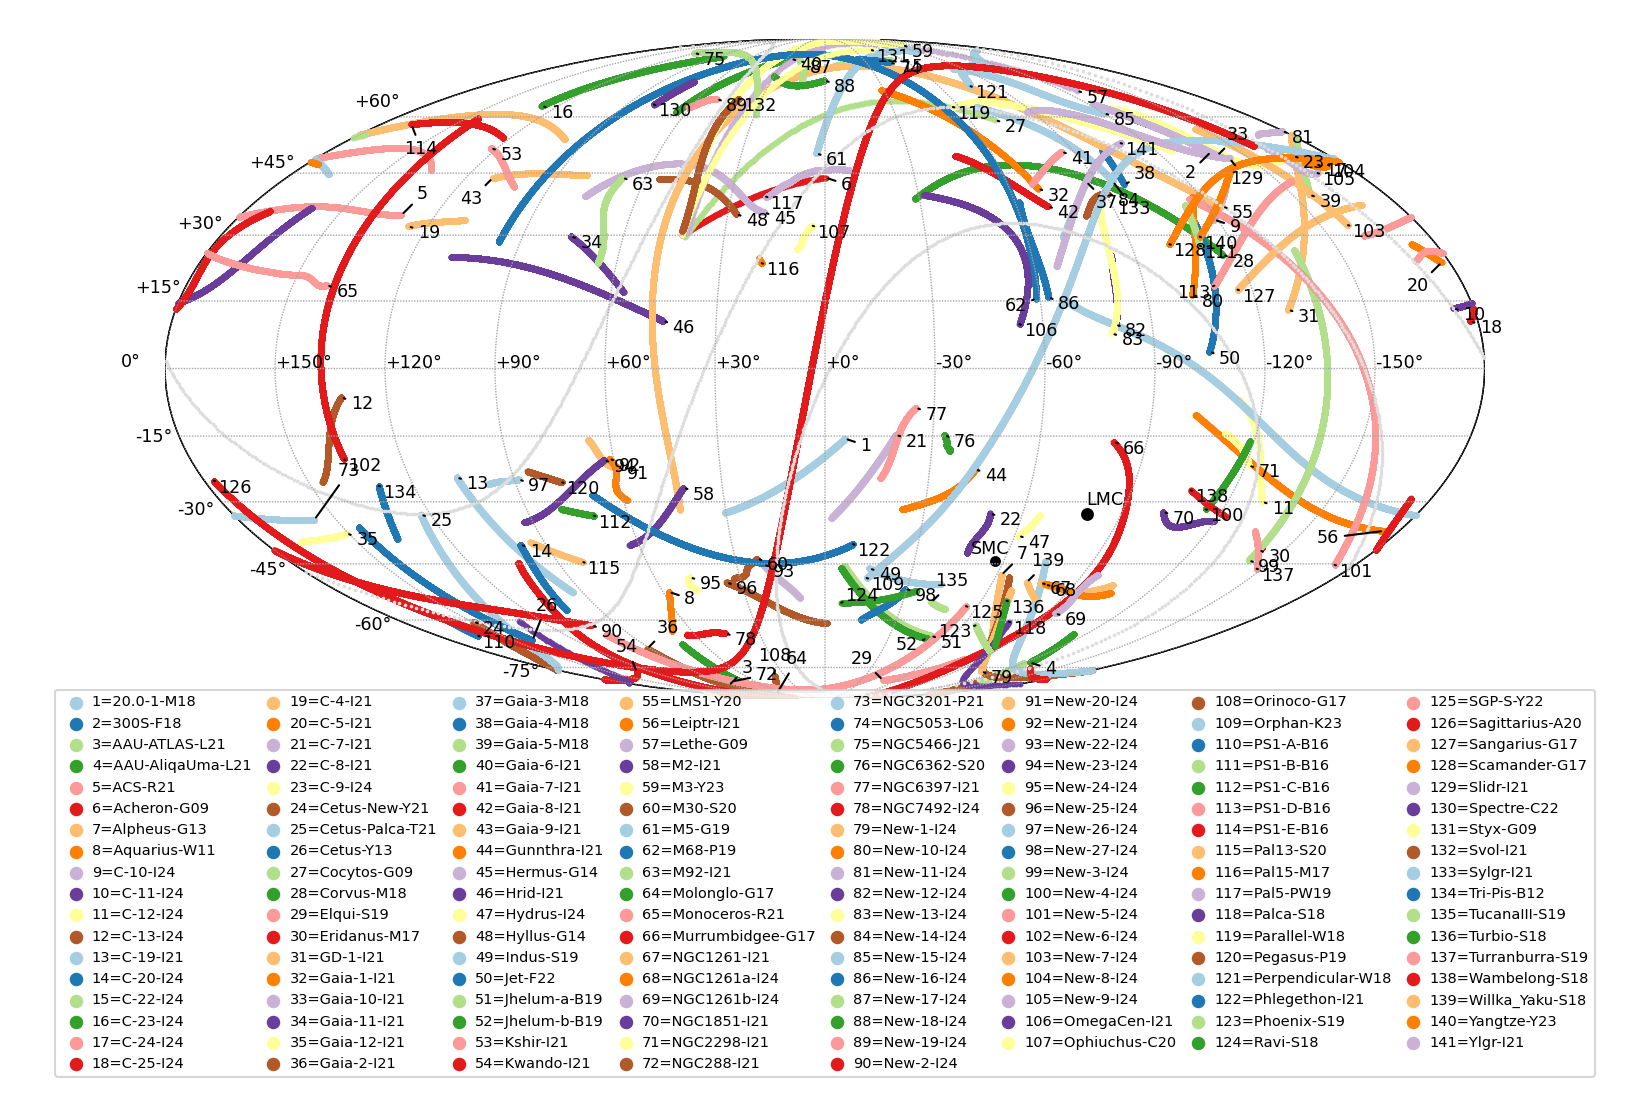
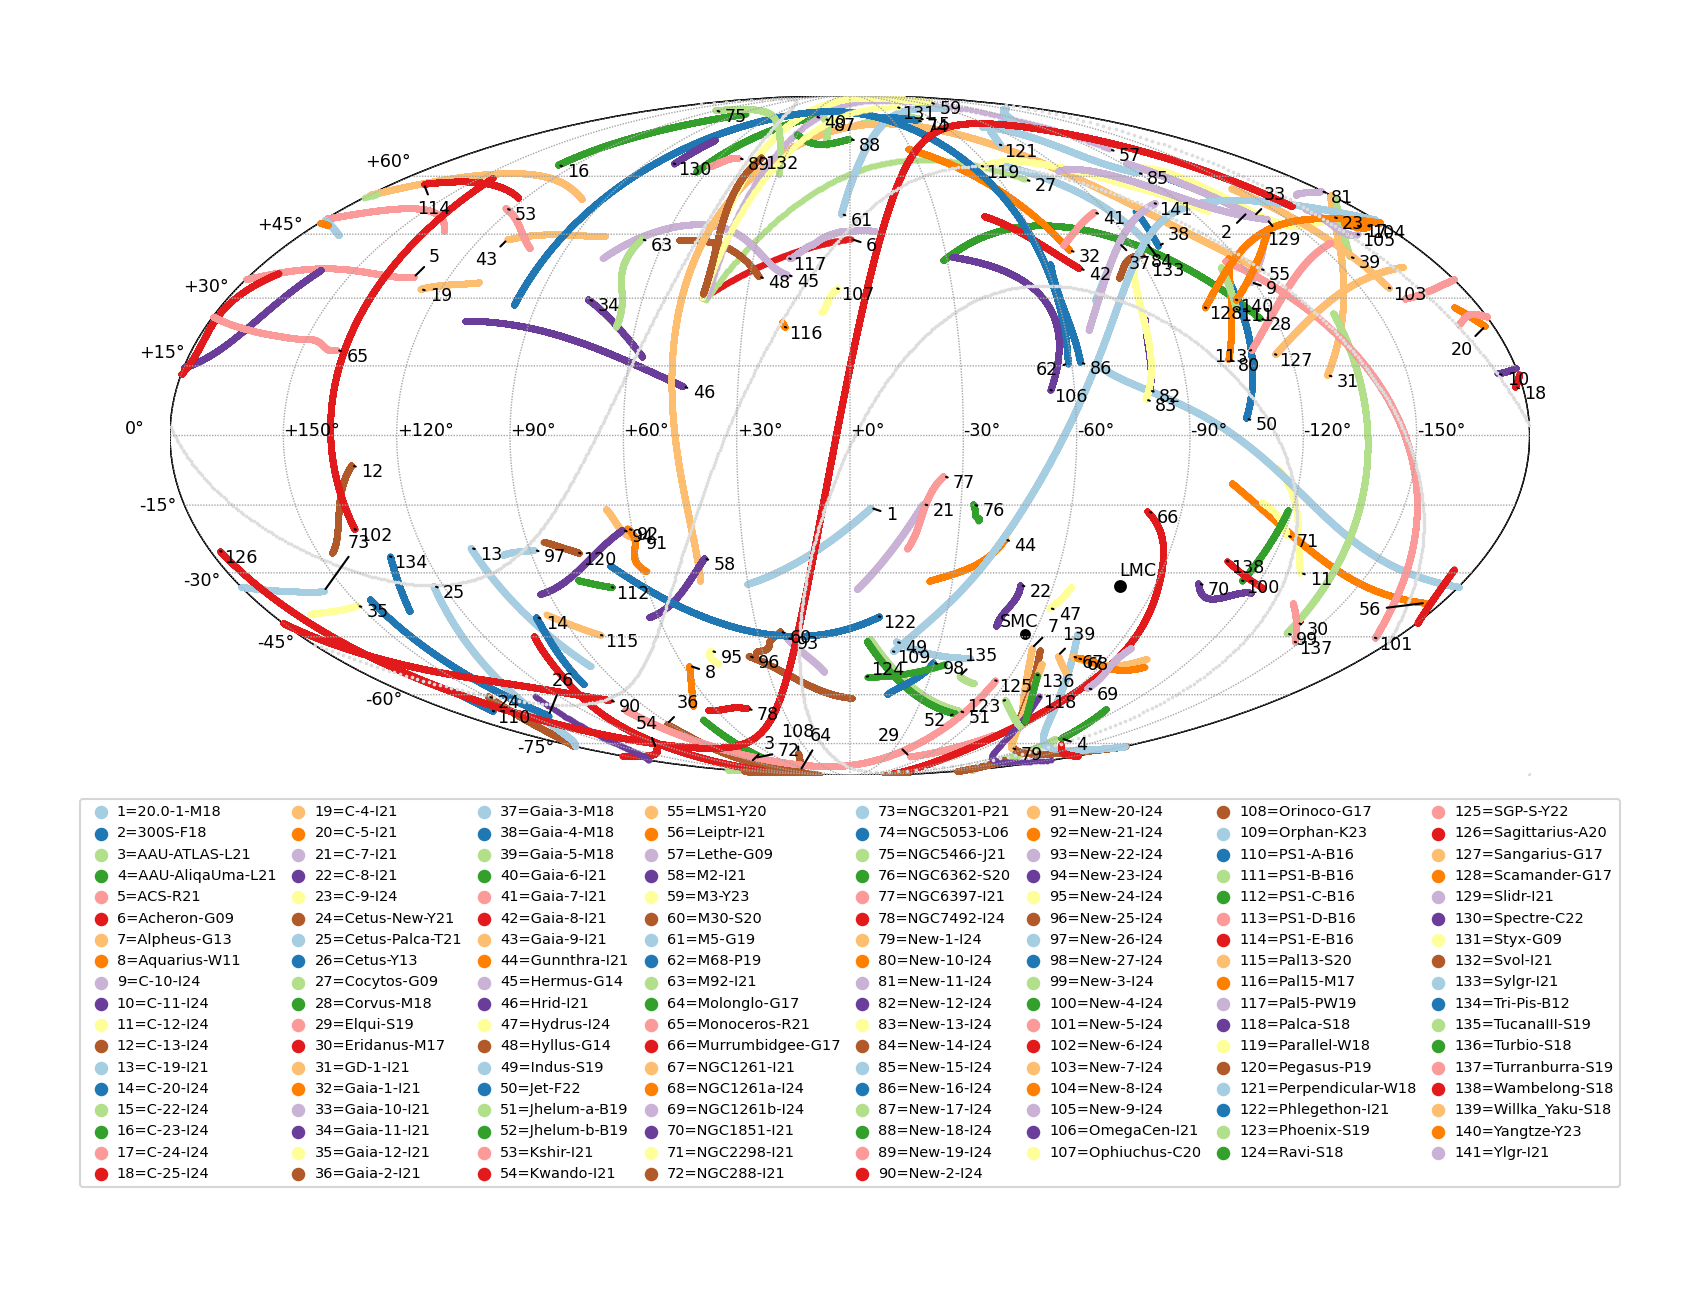
legend shift

diff --git a/galstreams/core.py b/galstreams/core.py
@@ -546,7 +546,7 @@ class MWStreams(dict):
                                                 arrowprops=dict(arrowstyle="-",color='k'),
                                                 horizontalalignment='center', verticalalignment='center'), 
 			      legend_kwds = dict(ncol=8,loc='center', columnspacing=0.5, handletextpad=0.1,
- 			                         bbox_to_anchor=(0.5,-0.28), markerscale=3, fontsize='medium'),
+ 			                         bbox_to_anchor=(0.5,-0.35), markerscale=3, fontsize='medium'),
                               cb_kwds = None,
                               exclude_streams=[], include_only=[], plot_On_only=False,
                               return_basemap_m = False,
@@ -630,7 +630,7 @@ class MWStreams(dict):
    '''
 
    if ax is None:
-     fig = plt.figure(1,figsize=(16.5,11))
+     fig = plt.figure(1,figsize=(17,12))
      ax = fig.add_subplot(111)
    
    #Follow the usual convention for Galactic and ICRS to invert the l/ra axis
